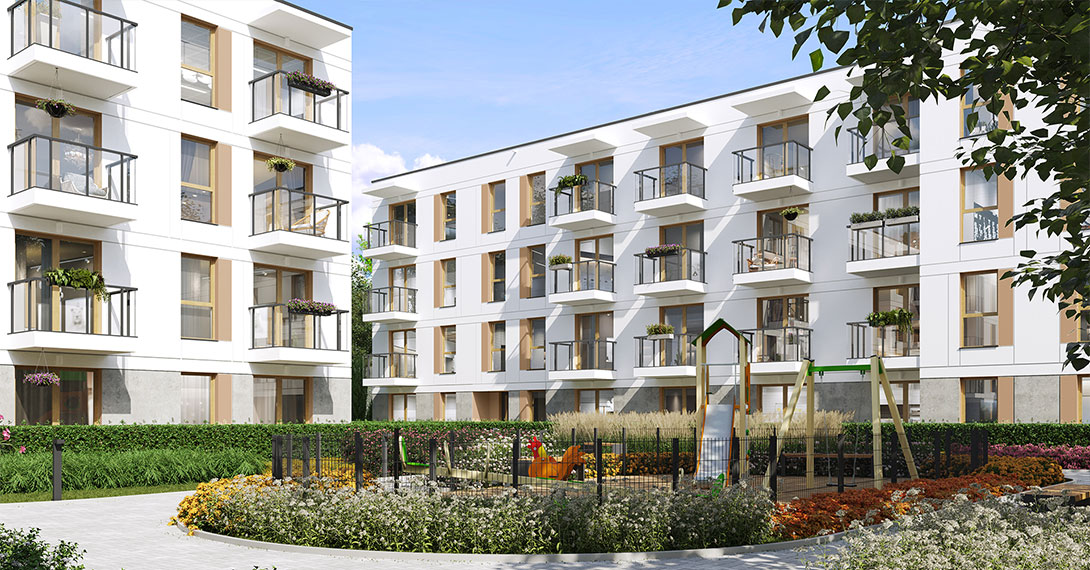
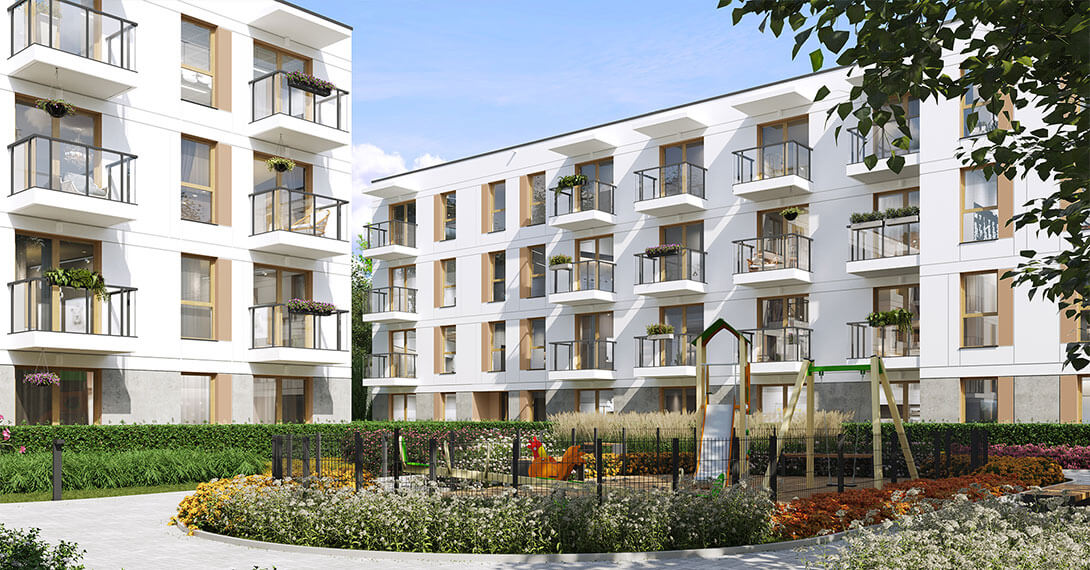
Optymalizacja obrazków

Changed region(s): [[0.9982, 0.9544, 1.0, 1.0], [0.9982, 0.8649, 1.0, 0.8947], [0.156, 0.8947, 0.1872, 0.9246]]

diff --git a/resources/views/front/homepage/index.blade.php b/resources/views/front/homepage/index.blade.php
@@ -281,20 +281,60 @@
             <div class="gallery-slider__slider slider slider--with-bar scroll-animation delay-1">
 
                 <button class="gallery-slider__slide" data-src="{{ asset('images/carousel/photo-01.jpg') }}">
-                    <img src="{{ asset('images/carousel/list/photo-01.jpg') }}" alt="" class="gallery-slider__image">
+                    <picture>
+                        <source srcset="{{ asset('images/carousel/list/webp/photo-01.webp') }}" type="image/webp">
+                        <img src="{{ asset('images/carousel/list/photo-01.jpg') }}"
+                             alt=""
+                             class="gallery-slider__image"
+                             width="1090"
+                             height="570">
+                    </picture>
                 </button>
+
                 <button class="gallery-slider__slide" data-src="{{ asset('images/carousel/photo-02.jpg') }}">
-                    <img src="{{ asset('images/carousel/list/photo-02.jpg') }}" alt="" class="gallery-slider__image">
+                    <picture>
+                        <source srcset="{{ asset('images/carousel/list/webp/photo-02.webp') }}" type="image/webp">
+                        <img src="{{ asset('images/carousel/list/photo-02.jpg') }}"
+                             alt=""
+                             class="gallery-slider__image"
+                             width="1090"
+                             height="570">
+                    </picture>
                 </button>
+
                 <button class="gallery-slider__slide" data-src="{{ asset('images/carousel/photo-03.jpg') }}">
-                    <img src="{{ asset('images/carousel/list/photo-03.jpg') }}" alt="" class="gallery-slider__image">
+                    <picture>
+                        <source srcset="{{ asset('images/carousel/list/webp/photo-03.webp') }}" type="image/webp">
+                        <img src="{{ asset('images/carousel/list/photo-03.jpg') }}"
+                             alt=""
+                             class="gallery-slider__image"
+                             width="1090"
+                             height="570">
+                    </picture>
                 </button>
+
                 <button class="gallery-slider__slide" data-src="{{ asset('images/carousel/photo-04.jpg') }}">
-                    <img src="{{ asset('images/carousel/list/photo-04.jpg') }}" alt="" class="gallery-slider__image">
+                    <picture>
+                        <source srcset="{{ asset('images/carousel/list/webp/photo-04.webp') }}" type="image/webp">
+                        <img src="{{ asset('images/carousel/list/photo-04.jpg') }}"
+                             alt=""
+                             class="gallery-slider__image"
+                             width="1090"
+                             height="570">
+                    </picture>
                 </button>
+
                 <button class="gallery-slider__slide" data-src="{{ asset('images/carousel/photo-05.jpg') }}">
-                    <img src="{{ asset('images/carousel/list/photo-05.jpg') }}" alt="" class="gallery-slider__image">
+                    <picture>
+                        <source srcset="{{ asset('images/carousel/list/webp/photo-05.webp') }}" type="image/webp">
+                        <img src="{{ asset('images/carousel/list/photo-05.jpg') }}"
+                             alt=""
+                             class="gallery-slider__image"
+                             width="1090"
+                             height="570">
+                    </picture>
                 </button>
+
             </div>
 
             <div class="wrapper gallery-slider__pagination-wrapper scroll-animation delay-3">
